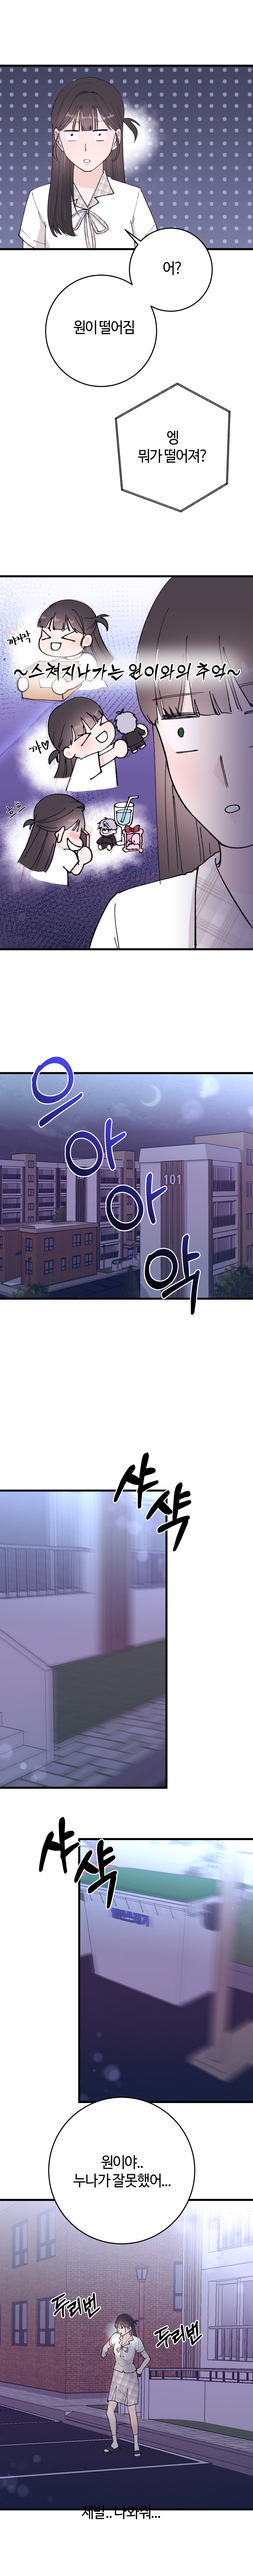
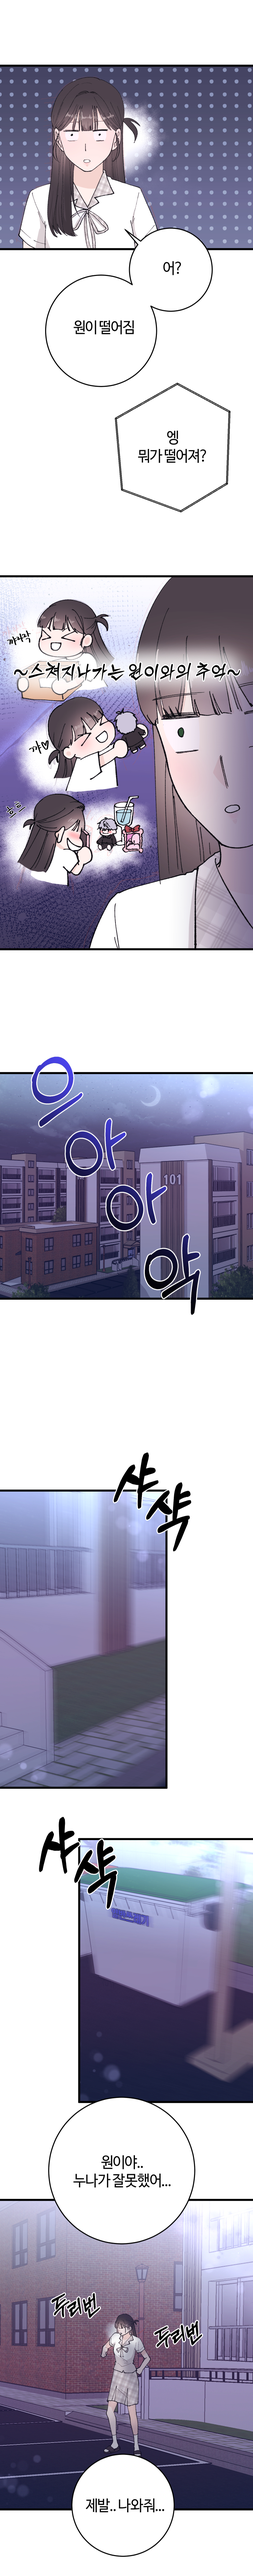
1화 수정본 반영 (13번 컷)

Changed region(s): [[0.2739, 0.9343, 0.7, 0.9966]]

diff --git a/viewer.html b/viewer.html
@@ -47,7 +47,7 @@
     // 회차를 추가하려면 assets/ep3 폴더에 001.jpg, 002.jpg … 를 넣고 아래에 3: 컷수 를 추가하세요.
     var EPISODES = { 1: 15, 2: 11 };
     // 그림을 수정해서 다시 넣었을 때 숫자를 올리면 예전 그림이 캐시에서 남지 않습니다.
-    var VERSION = 4;
+    var VERSION = 5;
     // 회차별 네이버웹툰 주소 (별점은 네이버에서 남깁니다)
     var NAVER = {
       1: 'https://comic.naver.com/challenge/detail?titleId=856602&no=1',
